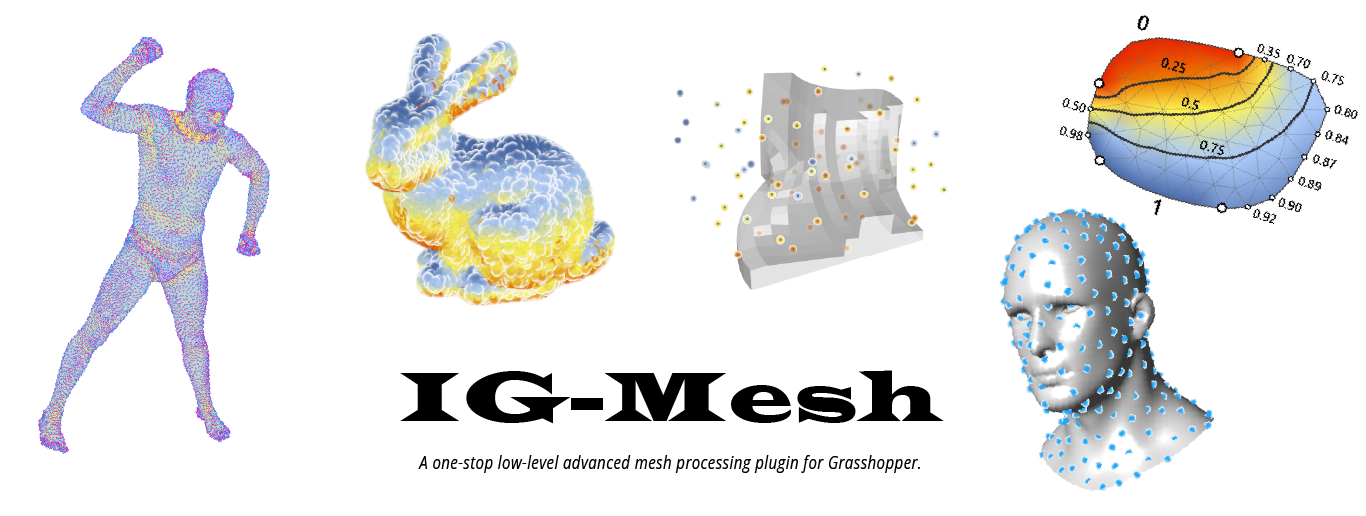
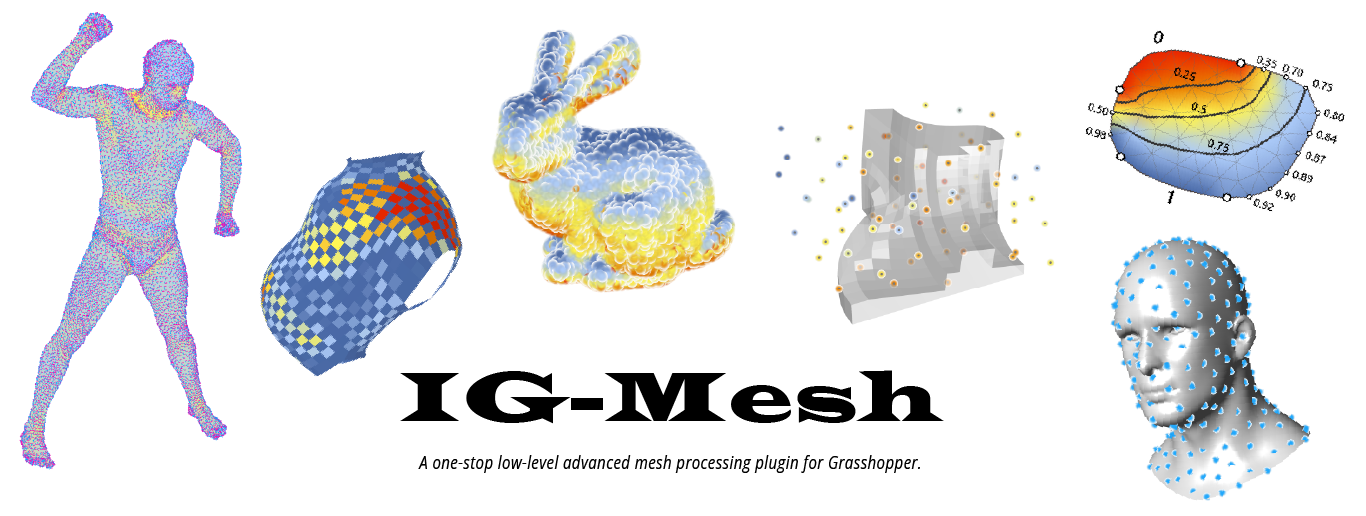
update showcase and readme.

diff --git a/.github/README.md b/.github/README.md
@@ -43,11 +43,28 @@ The library features tools for extracting both low-level information (e.g. verte
 </p>
 
 
-<details><summary> <b>Component Showcase</b> (Click to expand!)</summary>
+### Highlighted Components
+#### universal random points (blue noise)
+![Universal Random Distribution](https://raw.githubusercontent.com/xarthurx/IG-Mesh/master/graphics/showcase_randomPts.png)
 
-![Mesh Isoline](https://user-images.githubusercontent.com/59060246/130129880-59ab1ad5-9aa6-4f50-9ddd-d8dde0c16257.png)
+<details><summary> More (Click to expand!)... </summary>
+
+#### mesh isoline
+![Mesh Isoline](https://raw.githubusercontent.com/xarthurx/IG-Mesh/master/graphics/showcase_isoline.png)
+
+
+#### quad-mesh planarization
+![Quad Planarization](https://raw.githubusercontent.com/xarthurx/IG-Mesh/master/graphics/showcase_planarization.png)
+
 
 </details>
+
+## ALPHA-phase and Use case collection
+**This library is currently under the alpha-phase for initial public test. To further improve it, your contribution is needed.**
+
+Please submit an issue and describe what your mesh processing task requires and what type of functions are missing.
+
+I will add the corresponding functions to the library after evaluation, ASAP.
 
 
 ## Installation 
@@ -70,23 +87,15 @@ Pre-compiled releases are available on the [GitHub repo](https://github.com/xart
 *Releases with minor updates will only be published as pre-compiled releases and be hosted on github.*
 
 
-# Alpha-phase and Use case collection
-**This library is currently under the alpha-phase for initial public test. To further improve it, your contribution is needed.**
-
-Please submit an issue and describe what your mesh processing task requires and what type of functions are missing.
-
-I will add the corresponding functions to the library after evaluation, ASAP.
-
-
-# Planned Feature 
-## TODO
+## Planned Feature 
+### TODO
 Below are the current planned features to be added in the next release:
 - ~~planarization using [*Shape-Up*](https://lgg.epfl.ch/publications/2012/shapeup/index.php)~~ (done in v0.2)
 - Half-Edge structure
 - ~~Fast geodesic distance based on the "Heat-kernel" method~~ (done in v0.2)
 
 
-## Future Plan (Non-Goal TODO)
+### Future Plan (Non-Goal TODO)
 Below is an incomplete list of functions that `IG-Mesh` plans to provide. The list is constantly adjusted based on feedback:
 
 - edge-related functions for vector fields operation 
